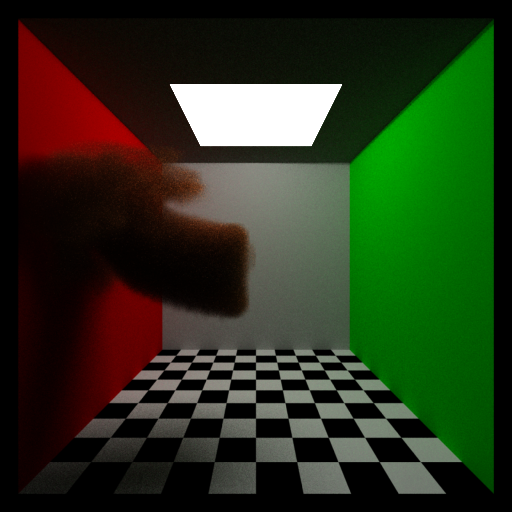
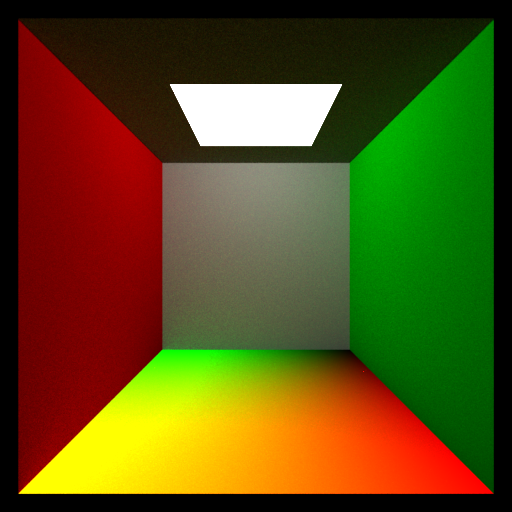
Added image texture adn fixed some bump mapping stuff

diff --git a/src/texture/image.rs b/src/texture/image.rs
@@ -1,0 +1,105 @@
+use std::sync::Arc;
+
+use crate::{core::{Printable, Vector2, spectrum::Spectrum, texture::{Texture, TextureMapping2D, TextureT}}, interaction::surface_interaction::SurfaceInteraction, loader::Parameters, registry::{LeadObject, Manufacturable}};
+
+#[derive(Debug, Clone, PartialEq)]
+pub struct ImageTexture {
+    mapping: Arc<TextureMapping2D>,
+
+    filename: String,
+    image: Arc<Vec<Spectrum>>,
+    width: usize,
+    height: usize
+}
+
+impl ImageTexture {
+    pub fn init(filename: String, mapping: Arc<TextureMapping2D>) -> Self {
+        let img = image::open(&filename).unwrap().to_rgb8();
+
+        let (w, h) = img.dimensions();
+
+        let data: Vec<Spectrum> = img.pixels().map(|p| {
+            Spectrum::new(
+                p[0] as f32 / 255.0, 
+                p[1] as f32 / 255.0, 
+                p[2] as f32 / 255.0
+            )
+        }).collect();
+
+        Self {
+            mapping,
+
+            filename,
+            image: Arc::new(data),
+            width: w as usize,
+            height: h as usize,
+        }
+    }
+
+    fn get_pixel(&self, x: usize, y: usize) -> Spectrum {
+        self.image[y * self.width + x]
+    }
+}
+
+impl TextureT for ImageTexture {
+    fn evaluate(&self, si: &SurfaceInteraction) -> Spectrum {
+        let mut dsdtx = Vector2::zeros();
+        let mut dsdty = Vector2::zeros();
+
+        let st = self.mapping.map(si, &mut dsdtx, &mut dsdty);
+
+        let mut u = st[0];
+        let mut v = st[1];
+
+        u = u.rem_euclid(1.0);
+        v = v.rem_euclid(1.0);
+
+        let x = (u * self.width as f32) as usize;
+        let y = ((1.0 - v) * self.height as f32) as usize;
+
+        let x = x.min(self.width - 1);
+        let y = y.min(self.height - 1);
+
+        let ret= self.get_pixel(x, y);
+
+        // println!("{}, {} ==> {:?}", x, y, ret);
+        ret
+    }
+}
+
+impl Manufacturable<Texture> for ImageTexture {
+    fn create_from_parameters(param: Parameters) -> Texture {
+        let mut param = param;
+
+        let mapping = match param.get_lead_object("mapping") {
+            Some(LeadObject::TextureMapping(m)) => m,
+            _ => panic!("Checkerboard Texture requires a mapping")
+        };
+
+        let filename = param.get_string("filename", None);
+
+        Texture::Image(
+            Self::init(
+                filename, 
+                Arc::new(mapping)
+            )
+        )
+    }
+}
+
+impl Printable for ImageTexture {
+    fn to_string(&self) -> String {
+        format!(
+            "Image Texture: [\n
+            \tmapping: {},\n
+            \tfilename: {},\n
+            \tw: {},\n
+            \th: {},\n
+            ",
+            self.mapping.to_string(),
+            self.filename,
+            self.width,
+            self.height
+        )
+    }
+}

diff --git a/src/core/texture.rs b/src/core/texture.rs
@@ -1,6 +1,6 @@
 use std::fmt::Debug;
 
-use crate::{core::{Point2, Printable, Vector2, spectrum::Spectrum}, interaction::surface_interaction::SurfaceInteraction, registry::Manufacturable, texture::{checkerboard_texture::CheckerboardTexture, constant::ConstantTexture, scale::ScaleTexture, uv_mapping::UVMapping2D, uv_texture::UVTexture}};
+use crate::{core::{Point2, Printable, Vector2, spectrum::Spectrum}, interaction::surface_interaction::SurfaceInteraction, registry::Manufacturable, texture::{checkerboard::CheckerboardTexture, constant::ConstantTexture, image::ImageTexture, scale::ScaleTexture, uv_mapping::UVMapping2D, uv_texture::UVTexture}};
 
 #[derive(Debug, PartialEq)]
 pub enum TextureMapping2D {
@@ -30,7 +30,8 @@ pub enum Texture {
     Constant(ConstantTexture),
     UV(UVTexture),
     Checkerboard(CheckerboardTexture),
-    Scale(ScaleTexture)
+    Scale(ScaleTexture),
+    Image(ImageTexture)
 }
 
 impl Texture {
@@ -39,7 +40,8 @@ impl Texture {
             Texture::Constant(t) => t.evaluate(si),
             Texture::UV(t) => t.evaluate(si),
             Texture::Checkerboard(t) => t.evaluate(si),
-            Texture::Scale(t) => t.evaluate(si)
+            Texture::Scale(t) => t.evaluate(si),
+            Texture::Image(t) => t.evaluate(si),
         }
     }
 
@@ -48,7 +50,8 @@ impl Texture {
             Texture::Constant(t) => t.to_string(),
             Texture::UV(t) => t.to_string(),
             Texture::Checkerboard(t) => t.to_string(),
-            Texture::Scale(t) => t.to_string()
+            Texture::Scale(t) => t.to_string(),
+            Texture::Image(t) => t.to_string(),
         }
     }
 }

diff --git a/src/material/glass.rs b/src/material/glass.rs
@@ -1,6 +1,6 @@
 use std::sync::Arc;
 
-use crate::{core::{Printable, Vector3, bxdf::BxDF, interaction::TransportMode, material::{Material, MaterialT}, spectrum::Spectrum, texture::Texture}, interaction::surface_interaction::SurfaceInteraction, reflection::{fresnel::FresnelSpecular}, registry::Manufacturable};
+use crate::{core::{Printable, Vector3, bxdf::BxDF, interaction::TransportMode, material::{Material, MaterialT}, spectrum::Spectrum, texture::Texture}, interaction::surface_interaction::SurfaceInteraction, loader::Parameters, reflection::fresnel::FresnelSpecular, registry::{LeadObject, Manufacturable}};
 
 
 #[derive(Debug, PartialEq)]
@@ -61,7 +61,9 @@ impl MaterialT for GlassMaterial {
 }
 
 impl Manufacturable<Material> for GlassMaterial {
-    fn create_from_parameters(param: crate::loader::Parameters) -> Material {
+    fn create_from_parameters(param: Parameters) -> Material {
+        let mut param = param;
+
         let r = param.get_vector3("r", Some(Vector3::new(1.0, 1.0, 1.0)));
         let t = param.get_vector3("t", Some(Vector3::new(1.0, 1.0, 1.0)));
 
@@ -75,7 +77,16 @@ impl Manufacturable<Material> for GlassMaterial {
             TransportMode::Importance
         };
 
-        let mt = Self::init(r, t, eta_a, eta_b, mode, None);
+        let bump = match param.get_lead_object("bump") {
+            Some(LeadObject::Texture(t)) => {
+                Some(
+                    Arc::new(t)
+                )
+            },
+            _ => None
+        };
+
+        let mt = Self::init(r, t, eta_a, eta_b, mode, bump);
 
         Material::Glass(mt)
     }

diff --git a/src/material/mirror.rs b/src/material/mirror.rs
@@ -1,6 +1,6 @@
 use std::sync::Arc;
 
-use crate::{core::{Printable, bxdf::BxDF, interaction::TransportMode, material::{Material, MaterialT}, spectrum::Spectrum, texture::{Texture}}, interaction::surface_interaction::SurfaceInteraction, reflection::{fresnel::{Fresnel, FresnelNoOp}, specular::SpecularReflection}, registry::Manufacturable};
+use crate::{core::{Printable, bxdf::BxDF, interaction::TransportMode, material::{Material, MaterialT}, spectrum::Spectrum, texture::Texture}, interaction::surface_interaction::SurfaceInteraction, reflection::{fresnel::{Fresnel, FresnelNoOp}, specular::SpecularReflection}, registry::{LeadObject, Manufacturable}};
 
 
 #[derive(Debug, PartialEq)]
@@ -50,9 +50,20 @@ impl MaterialT for MirrorMaterial {
 }
 
 impl Manufacturable<Material> for MirrorMaterial {
-    fn create_from_parameters(_param: crate::loader::Parameters) -> Material {
+    fn create_from_parameters(param: crate::loader::Parameters) -> Material {
+        let mut param = param;
+
+        let bump = match param.get_lead_object("bump") {
+            Some(LeadObject::Texture(t)) => {
+                Some(
+                    Arc::new(t)
+                )
+            },
+            _ => None
+        };
+
         let mt = Self {
-            bump_map: None
+            bump_map: bump
         };
 
         Material::Mirror(mt)

diff --git a/src/medium/heterogeneous.rs b/src/medium/heterogeneous.rs
@@ -16,6 +16,7 @@ pub struct HeterogeneousMedium {
     nx: usize,
     ny: usize,
     nz: usize,
+    // bounds_max: Point3,
     density: Vec<f32>,
 
     world_to_medium: Transform,
@@ -34,6 +35,13 @@ impl HeterogeneousMedium {
 
         let inv_max_density = 1.0 / max_density;
 
+        // let max_dim = nx.max(ny).max(nz) as f32;
+        // let bounds_max = Point3::new(
+        //     nx as f32 / max_dim,
+        //     ny as f32 / max_dim,
+        //     nz as f32 / max_dim,
+        // );
+
         Self {
             sigma_a,
             sigma_s,
@@ -41,6 +49,7 @@ impl HeterogeneousMedium {
             nx,
             ny,
             nz,
+            // bounds_max,
             density,
             world_to_medium: medium_to_world.inverse(),
             sigma_t,
@@ -199,7 +208,7 @@ impl MediumT for HeterogeneousMedium {
         let ray = apply_transform_to_ray(
             &Ray::init(
                 &r_world.o, 
-                &r_world.d, 
+                &r_world.d.normalize(), 
                 r_world.t_max.get() * r_world.d.norm(), 
                 0.0, 
                 None, 

diff --git a/src/main.rs b/src/main.rs
@@ -24,8 +24,9 @@ use crate::material::glass::GlassMaterial;
 use crate::reflection::fresnel::{FresnelConductor, FresnelDielectric, FresnelNoOp};
 
 // Textures
-use crate::texture::checkerboard_texture::CheckerboardTexture;
+use crate::texture::checkerboard::CheckerboardTexture;
 use crate::texture::constant::ConstantTexture;
+use crate::texture::image::ImageTexture;
 use crate::texture::uv_texture::UVTexture;
 use crate::texture::scale::ScaleTexture;
 
@@ -282,6 +283,13 @@ fn main() {
         "constant".to_string(), 
         Box::new(|params| {
             ConstantTexture::create_from_parameters(params)
+        })
+    );
+
+    registry.register_texture(
+        "image".to_string(), 
+        Box::new(|params| {
+            ImageTexture::create_from_parameters(params)
         })
     );
 

diff --git a/src/texture/mod.rs b/src/texture/mod.rs
@@ -1,5 +1,6 @@
 pub mod uv_mapping;
 pub mod uv_texture;
-pub mod checkerboard_texture;
+pub mod checkerboard;
 pub mod constant;
 pub mod scale;
+pub mod image;
